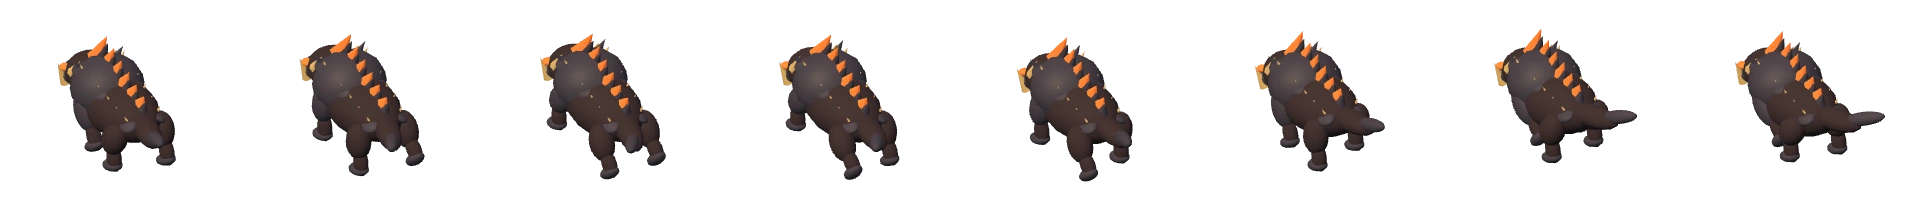
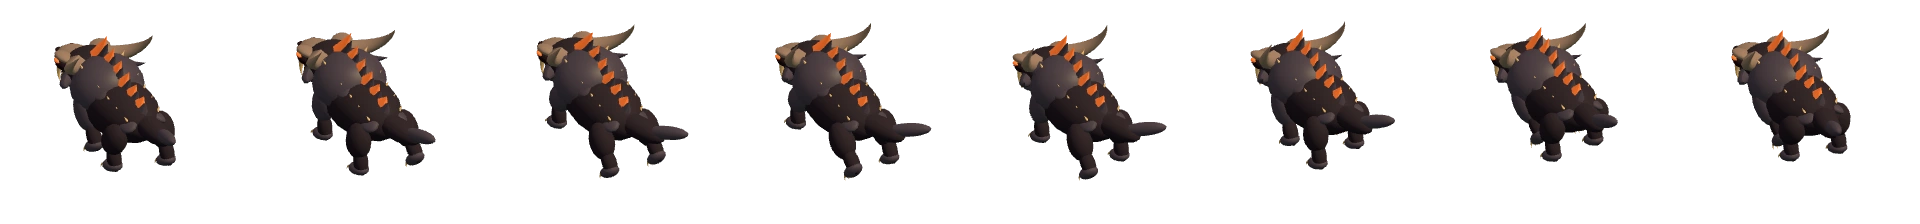
Fill the viewport edge to edge and animate the ridgeback grabbing the warrior

diff --git a/style.css b/style.css
@@ -1,33 +1,32 @@
 *{box-sizing:border-box}
 :root{
-  font-family:"Helvetica Neue",Arial,sans-serif;color:#19392f;background:#f1eddf;
+  font-family:"Helvetica Neue",Arial,sans-serif;color:#19392f;background:#102821;
   --paper:#f1eddf;--ink:#18392e;--gold:#f7c66e;
 }
 body{
   margin:0;height:100vh;height:100dvh;overflow:hidden;
   display:grid;grid-template-rows:auto minmax(0,1fr) auto;
-  padding: max(12px,env(safe-area-inset-top)) max(clamp(12px,2.6vw,48px),env(safe-area-inset-right)) max(9px,env(safe-area-inset-bottom)) max(clamp(12px,2.6vw,48px),env(safe-area-inset-left));
+  --side:max(16px,3vw,env(safe-area-inset-left),env(safe-area-inset-right));
 }
 [hidden]{display:none!important}
 button,kbd{font-family:inherit}
 button{cursor:pointer;color:inherit}
 button:focus-visible{outline:3px solid #ba7628;outline-offset:4px}
 header,footer,.brand,.stats,.stats>span,.keys,.keys>span,.actions,.guide-top{display:flex;align-items:center}
-header{justify-content:space-between;gap:12px;padding:3px 2px 15px;z-index:2}
+header{grid-area:1/1;justify-content:space-between;gap:12px;padding:max(12px,env(safe-area-inset-top)) var(--side) 10px;z-index:2;color:#fff6df;background:linear-gradient(#10251db0,transparent)}
 .brand{gap:10px;font-weight:950;font-size:13px;line-height:.94;letter-spacing:-.025em}
 .brand img{width:40px;height:40px}
 .stats{gap:18px}
 .stats>span{gap:8px;font-size:11px;font-weight:800;text-transform:uppercase;letter-spacing:.12em}
 .stats b{font-size:19px;letter-spacing:-.045em;font-variant-numeric:tabular-nums}
 #help,#home,.close{border:1px solid #17392d42;background:transparent;border-radius:6px;font-weight:750}
-#help{display:flex;align-items:center;gap:8px;min-height:40px;padding:0 13px}
+#help{display:flex;align-items:center;gap:8px;min-height:40px;padding:0 13px;background:#142e24ce;border-color:#fff5;color:#fff6df}
 #help span{font-size:10px;border:1.5px solid currentColor;border-radius:50%;width:16px;height:16px;line-height:14px}
-#help:hover,.close:hover{background:#dedfcf}
-.stage{position:relative;isolation:isolate;border-radius:12px;overflow:hidden;background:#264a3b;display:grid;align-items:center}
+#help:hover{background:#254738}.close:hover{background:#dedfcf}
+.stage{grid-area:1/1/4/2;position:relative;isolation:isolate;overflow:hidden;background:#264a3b;display:grid;align-items:center;padding:max(62px,calc(env(safe-area-inset-top) + 50px)) 0 max(44px,calc(env(safe-area-inset-bottom) + 38px))}
 canvas{position:absolute;inset:0;display:block;width:100%;height:100%;touch-action:none}
-.stage::before,.stage::after{content:"";pointer-events:none;position:absolute;inset:0;z-index:1}
+.stage::before{content:"";pointer-events:none;position:absolute;inset:0;z-index:1}
 .stage::before{background:linear-gradient(90deg,#0b231bf5 0%,#102b20dc 23%,#122c2182 44%,transparent 69%),linear-gradient(0deg,#10251e66,transparent 45%)}
-.stage::after{inset:auto 0 0;height:5px;background:repeating-linear-gradient(120deg,#d3b77b 0 4px,#617557 4px 8px,#203d32 8px 12px);opacity:.75}
 main{position:relative;z-index:1;max-height:100%;overflow:auto;scrollbar-width:thin;color:#fff7e5;padding:clamp(16px,4vw,72px);width:fit-content;max-width:57%}
 .course,.control-label{font-size:10px;font-weight:800;letter-spacing:.18em;text-transform:uppercase}
 .course{display:flex;align-items:center;gap:11px;color:#f5cf8d}
@@ -41,8 +40,8 @@ main p{color:#f4eddd;line-height:1.5;font-size:clamp(14px,1.15vw,18px);max-width
 .play-icon{width:0;height:0;border-block:6px solid transparent;border-left:9px solid currentColor}
 #start:hover,.done:hover{background:#ffdb93}
 #home{color:#fff8e5;border-color:#fff6;padding:13px 18px;background:#132d2499}
-footer{padding:13px 2px 2px;justify-content:space-between;gap:12px}
-.control-label{color:#506557}.keys{gap:20px}.keys>span,.touch{font-size:12px;font-weight:700;gap:5px}
+footer{grid-area:3/1;position:relative;z-index:2;color:#fff6df;background:linear-gradient(transparent,#10251dc4);padding:10px var(--side) max(12px,env(safe-area-inset-bottom));justify-content:space-between;gap:12px}
+.control-label{color:#e7d8ba}.keys{gap:20px}.keys>span,.touch{font-size:12px;font-weight:700;gap:5px}
 kbd{padding:3px 6px;border-radius:4px;border:1px solid #adb7a5;box-shadow:0 1px 0 #adb7a5;font-size:11px}
 .touch{display:none}
 dialog{width:min(410px,calc(100vw - 28px));max-height:90dvh;border:none;border-radius:12px;background:var(--paper);color:var(--ink);padding:clamp(18px,4vw,30px);box-shadow:0 20px 80px #071b15aa}
@@ -52,9 +51,9 @@ h2{font-size:34px;letter-spacing:-.055em;margin:18px 0 9px}
 dialog p,dd{font-size:14px;line-height:1.5}dl{margin:20px 0}dl>div{border-top:1px solid #1a382a30;display:grid;grid-template-columns:36% 1fr;padding:11px 0}
 dt{font-size:14px;font-weight:750}dd{margin:0}small{color:#536658}.done{width:100%}
 body:is([data-state=playing],[data-state=catching]){display:block;padding:0;touch-action:none}
-body:is([data-state=playing],[data-state=catching]) .stage{position:absolute;inset:0;border-radius:0}
+body:is([data-state=playing],[data-state=catching]) .stage{position:absolute;inset:0;padding:0}
 body:is([data-state=playing],[data-state=catching]) .stage::before,body:is([data-state=playing],[data-state=catching]) .stage::after,body:is([data-state=playing],[data-state=catching]) #help,body:is([data-state=playing],[data-state=catching]) footer{display:none}
-body:is([data-state=playing],[data-state=catching]) header{position:absolute;top:max(12px,env(safe-area-inset-top));left:max(16px,env(safe-area-inset-left));right:max(16px,env(safe-area-inset-right));color:#fff5db;text-shadow:0 1px 5px #14271f;pointer-events:none}
+body:is([data-state=playing],[data-state=catching]) header{position:absolute;top:max(12px,env(safe-area-inset-top));left:max(16px,env(safe-area-inset-left));right:max(16px,env(safe-area-inset-right));padding:0;background:none;color:#fff5db;text-shadow:0 1px 5px #14271f;pointer-events:none}
 body:is([data-state=playing],[data-state=catching]) .stats{gap:5px}body:is([data-state=playing],[data-state=catching]) .stats>span{padding:6px 10px;border-radius:5px;background:#153127dd}
 @media(max-width:540px){body:is([data-state=playing],[data-state=catching]) .brand span{display:none}}
 @media(pointer:coarse){.keys{display:none}.touch{display:block}}
@@ -65,5 +64,5 @@ body:is([data-state=playing],[data-state=catching]) .stats{gap:5px}body:is([data
   main p{margin:13px 0 15px;max-width:32ch}.stats{gap:10px}
 }
 @media(max-width:480px){.brand{font-size:11px;gap:6px}.brand img{width:32px;height:32px}.stats>span{font-size:9px;gap:4px}.stats b{font-size:15px}#help{font-size:12px;padding:0 8px}.control-label{display:none}footer{justify-content:center}.keys{gap:10px}}
-@media(max-height:460px){body{padding-top:max(5px,env(safe-area-inset-top));padding-bottom:max(5px,env(safe-area-inset-bottom))}header{padding-bottom:6px}.brand img{width:30px;height:30px}#help{min-height:30px}main{padding:10px 3vw}h1{font-size:clamp(34px,13vh,56px);margin-top:8px}main p{font-size:12px;margin:8px 0}#start,#home{min-height:36px;padding:8px 14px}footer{padding-top:5px}.stage{border-radius:7px}}
+@media(max-height:460px){header{padding-block:5px}.brand img{width:30px;height:30px}#help{min-height:30px}main{padding:10px 3vw}h1{font-size:clamp(34px,13vh,56px);margin-top:8px}main p{font-size:12px;margin:8px 0}#start,#home{min-height:36px;padding:8px 14px}footer{padding-block:5px}.stage{padding-block:40px 30px}}
 @media(max-height:300px){main p{display:none}.actions{margin-top:10px}}

diff --git a/pursuer.js b/pursuer.js
@@ -3,8 +3,10 @@ import * as T from './vendor/three.module.min.js';
 // An obsidian ridgeback with a heavy forequarter and a springing hind gait.
 export function createPursuer(scene) {
     const hull=new T.SphereGeometry(1,14,10), fang=new T.ConeGeometry(1,1,7);
-    const hide=new T.MeshStandardMaterial({color:0x392d38,roughness:.82});
-    const plate=new T.MeshStandardMaterial({color:0x454257,roughness:.59});
+    const hide=new T.MeshStandardMaterial({color:0x271e2b,roughness:.82});
+    const plate=new T.MeshStandardMaterial({color:0x494254,roughness:.48});
+    const mouth=new T.MeshStandardMaterial({color:0x210f1b});
+    const skull=new T.MeshStandardMaterial({color:0x957e73,roughness:.62});
     const ivory=new T.MeshStandardMaterial({color:0xe2bf85,roughness:.6});
     const ember=new T.MeshStandardMaterial({color:0xf58c44,emissive:0xbd3c0c,emissiveIntensity:.7});
     function pivot(parent,x=0,y=0,z=0) {
@@ -14,16 +16,45 @@ export function createPursuer(scene) {
         const m=new T.Mesh(shape,material);m.position.set(x,y,z);m.scale.set(rx,ry,rz);
         m.castShadow=true;parent.add(m);return m;
     }
+    // Taper along a curved centreline so the hooks have sharp, swept tips.
+    function hook(parent,mat,start,mid,end,radius){
+        const curve=new T.QuadraticBezierCurve3(...[start,mid,end].map(p=>new T.Vector3(...p)));
+        const g=new T.TubeGeometry(curve,8,radius,7,false);
+        const pos=g.attributes.position,v=new T.Vector3();
+        for(let row=0;row<=8;row++){
+            const u=row/8,center=curve.getPointAt(u);
+            for(let j=0;j<=7;j++){
+                const i=row*8+j;
+                v.fromBufferAttribute(pos,i).sub(center).multiplyScalar(1-u*.993).add(center);
+                pos.setXYZ(i,v.x,v.y,v.z);
+            }
+        }
+        g.computeVertexNormals();form(parent,g,mat,0,0,0,1,1,1);
+    }
     const root=pivot(scene),body=pivot(root),head=pivot(body,0,.69,-.49);
     form(body,hull,hide,0,.58,0,.38,.33,.64);
     form(body,hull,plate,0,.73,-.27,.43,.36,.39);
-    form(head,hull,hide,0,.045,-.11,.295,.24,.31);
-    form(head,hull,plate,0,-.055,-.34,.23,.135,.22);
+    form(head,hull,hide,0,.09,-.12,.33,.25,.32);
+    form(head,hull,skull,0,.085,-.37,.218,.115,.33);
+    form(head,hull,hide,0,.047,-.59,.172,.085,.12);
+    const jaw=pivot(head,0,-.01,-.17);
+    form(jaw,hull,plate,0,-.095,-.20,.193,.089,.29);
+    form(jaw,hull,mouth,0,-.039,-.21,.172,.041,.268);
+    const bite=pivot(head,0,-.038,-.49);
+    const bitePosition=new T.Vector3();
     for(const s of [-1,1]){
-        form(head,hull,ember,s*.225,.09,-.31,.063,.038,.066);
-        form(head,fang,ivory,s*.23,-.015,-.37,.066,.30,.063).rotation.z=-s*.38;
-        form(head,fang,plate,s*.23,.235,.025,.095,.32,.10).rotation.z=-s*.66;
-        form(head,fang,ivory,s*.24,.22,-.05,.062,.28,.065).rotation.x=.61;
+        form(head,hull,mouth,s*.236,.143,-.31,.095,.077,.112);
+        form(head,hull,ember,s*.26,.159,-.342,.077,.034,.089).rotation.z=s*.29;
+        form(head,hull,mouth,s*.31,.16,-.38,.009,.026,.011);
+        form(head,hull,skull,s*.226,.217,-.303,.119,.054,.147).rotation.z=s*.34;
+        form(head,hull,mouth,s*.083,.092,-.674,.04,.027,.027);
+        hook(head,skull,[s*.20,.23,-.08],[s*.57,.30,.14],[s*.48,.64,.40],.112);
+        hook(head,plate,[s*.27,.05,-.15],[s*.47,.04,-.02],[s*.52,.17,.20],.091);
+        hook(head,ivory,[s*.151,.032,-.51],[s*.18,-.14,-.55],[s*.17,-.207,-.48],.045);
+        for(let j=0;j<4;j++){
+            form(head,fang,ivory,s*.162,.005,-.30-j*.066,.027,.10,.029).rotation.x=Math.PI;
+            form(jaw,fang,ivory,s*.15,-.018,-.12-j*.063,.026,.082,.029);
+        }
     }
     for(let i=0;i<6;i++){
         const z=-.40+i*.168, height=.53-.051*i,base=1.13-.058*i;
@@ -46,25 +77,31 @@ export function createPursuer(scene) {
         const ankle=pivot(hip,0,rear?-.26:-.33,.035);
         form(ankle,hull,hide,0,-.11,0,.084,.165,.089);
         form(ankle,hull,plate,0,-.205,-.057,.103,.069,.145);
+        for(let i=-1;i<=1;i++)hook(ankle,ivory,[i*.048,-.20,-.124],[i*.052,-.188,-.21],[i*.054,-.25,-.23],.027);
         legs.push({hip,ankle,s,rear});
     }
     return function animate(state,player,t,chase) {
         root.visible=state!=='start';
         if(!root.visible)return;
+        const grip=T.MathUtils.smoothstep(chase.hold,0,.22);
+        const hoist=T.MathUtils.smoothstep(chase.hold,.22,.91);
         const gap=.80+chase.lead;
-        root.position.set(chase.x,0,gap+chase.stumble*.48);
+        root.position.set(chase.x,0,gap+chase.stumble*.48+hoist*.58);
         root.rotation.y=Math.atan2(chase.x-player.x,gap)*.81;
         const run=chase.lead>0?1:0,phase=chase.stride*2.28;
         const lunge=state==='catching'?Math.sin(Math.PI*Math.max(0,1-chase.lead/.85)):0;
         const pinned=state==='over'||chase.lead===0;
         body.position.y=run*.081*Math.abs(Math.sin(phase))+.013*Math.sin(t*3)+lunge*.19;
-        body.rotation.x=.09*Math.sin(phase)*run+lunge*.24-(pinned?.19:0);
-        head.rotation.x=.1*Math.cos(phase+.5)*run-.07-(pinned?.24:0);
+        body.rotation.x=.09*Math.sin(phase)*run+lunge*.24-(pinned?.19:0)+hoist*.36;
+        head.rotation.x=.1*Math.cos(phase+.5)*run-.07-(pinned?.24:0)+hoist*.63;
+        head.rotation.z=hoist*(.13+.075*Math.sin(t*6));
+        jaw.rotation.x=-(.21+.09*Math.sin(phase)+lunge*.51)*(1-grip)-.055*grip;
         tailBase.rotation.y=.34*Math.sin(t*4.1);tip.rotation.y=.37*Math.sin(t*4.1-.8);
         for(const {hip,ankle,s,rear} of legs){
             const swing=Math.sin(phase+(rear?2.9:0)+s*.51);
             hip.rotation.x=swing*.72*run;
             ankle.rotation.x=-.19-Math.max(0,swing)*.78*run;
         }
+        return grip>0 ? bite.getWorldPosition(bitePosition) : null;
     };
 }

diff --git a/temple.js b/temple.js
@@ -152,6 +152,7 @@ export function createTempleScene(canvas) {
         scene.add(g);return g;
     }
     const free={barrier:[],gate:[],gem:[]};
+    const shotPosition=new T.Vector3(),shotTarget=new T.Vector3(),shotDirection=new T.Vector3();
     let prevW=0,prevH=0;
     return function draw(state,distance,p,entities,t,menu,chase){
         const w=canvas.clientWidth,h=canvas.clientHeight;
@@ -171,10 +172,22 @@ export function createTempleScene(canvas) {
             2.36-.79*menu-.55*catchFocus,
             T.MathUtils.lerp(T.MathUtils.lerp(chaseDepth,3.85+narrow*.7,menu),2.05,catchFocus));
         camera.lookAt(p.x*(.16+.84*catchFocus),1.08-.47*catchFocus,-4.6+menu*3.7+5.36*catchFocus);
+        if(chase.hold>0 && state!=='start'){
+            const closeUp=T.MathUtils.smoothstep(chase.hold,0,1.12);
+            // Let the grab read in profile first, then fill the results
+            // backdrop with the face while keeping the clasp in view.
+            const portraitZoom=state==='over'?menu:0;
+            camera.position.lerp(shotPosition.set(p.x+2.85-1.84*portraitZoom,
+                1.45-.10*portraitZoom,-.46+.46*portraitZoom),closeUp);
+            shotTarget.set(p.x,.87+.15*portraitZoom,1.16);
+            camera.getWorldDirection(shotDirection);
+            shotDirection.multiplyScalar(3.5).add(camera.position).lerp(shotTarget,closeUp);
+            camera.lookAt(shotDirection);
+        }
         forest.position.z=distance%period;repeat.position.z=forest.position.z-period;
-        poseRunner(state,distance,p,t,menu,chase.stumble);
-        posePursuer(state,p,t,chase);
-        shadow.position.set(p.x,.018,.02+chase.stumble*.48);shadow.scale.set(.37,.48,1);
+        const bite=posePursuer(state,p,t,chase);
+        const runnerPosition=poseRunner(state,distance,p,t,menu,chase.stumble,bite,chase.hold);
+        shadow.position.set(runnerPosition.x,.018,.02+runnerPosition.z);shadow.scale.set(.37,.48,1);
         for(const [e,obj] of objects)if(!entities.includes(e)){obj.visible=false;free[e.kind].push(obj);objects.delete(e);}
         for(const e of entities){
             let obj=objects.get(e);

diff --git a/runner.js b/runner.js
@@ -67,6 +67,7 @@ export function createRunner(scene) {
         return {anchor,bend};
     }
     const hips=joint(root),spine=joint(hips),neck=joint(spine,0,.61,-.018);
+    const armorGrip=joint(spine,0,.43,.178),gripPosition=new T.Vector3();
     // Wraparound woven panels share a small local texture. The larger bands
     // stay legible from the chase camera; the fine fibre shows in the menu.
     function weave(base, reed, trim) {
@@ -181,7 +182,7 @@ export function createRunner(scene) {
     });
     let lastTime=0,airborne=false,impact=0;
     const mix=T.MathUtils.lerp;
-    return function pose(state,distance,p,t,menu,stumble=0){
+    return function pose(state,distance,p,t,menu,stumble=0,bite=null,hold=0){
         const dt=Math.min(.08,Math.max(0,t-lastTime));lastTime=t;
         const running=state==='playing',air=T.MathUtils.smoothstep(p.y,0,.3);
         if(running && !p.y && airborne)impact=1;
@@ -222,6 +223,19 @@ export function createRunner(scene) {
             const counter=Math.cos(phase*2*Math.PI)*travel;
             arm.anchor.rotation.set(-.28-.82*counter+s*.46*air-.23*c,0,s*(.12+.27*c+.13*air));
             arm.bend.rotation.x=.62+.66*travel-.25*counter+.32*air;
+            if(bite){
+                const lift=T.MathUtils.smoothstep(hold,.18,.86);
+                arm.anchor.rotation.z+=s*lift*(.51+.14*Math.sin(t*8+s));
+                leg.bend.rotation.x-=lift*(.27+.18*Math.sin(t*7+s));
+            }
         }
+        // Keep the clasp on the back of the armor between the teeth while the
+        // head lifts and pulls. Both roots are in scene coordinates.
+        if(bite){
+            armorGrip.getWorldPosition(gripPosition);
+            root.position.addScaledVector(gripPosition.subVectors(bite,gripPosition),
+                T.MathUtils.smoothstep(hold,0,.22));
+        }
+        return root.position;
     };
 }

diff --git a/scene.js b/scene.js
@@ -148,6 +148,15 @@ function createScene(canvas, laneWidth) {
     athlete.src='assets/runner-poses.webp';
     const ridgeback=new Image();
     ridgeback.src='assets/ridgeback-poses.webp';
+    const capture=new Image();
+    capture.src='assets/ridgeback-grab.webp';
+    function grab(x,z,hold){
+        const frame=Math.min(15,Math.round(hold/1.65*15));
+        const [px,py]=project(x,0,z),scale=focal/z;
+        ellipse('#3e40474d',px,py,scale*.78,scale*.20);
+        ctx.drawImage(capture,frame%8*384,Math.floor(frame/8)*256,384,256,
+            px-2.1*scale,py-2.1*scale,4.2*scale,2.8*scale);
+    }
     function beast(x,z,distance){
         if(!ridgeback.naturalWidth)return;
         const [px,py]=project(x,0,z),scale=focal/z;
@@ -186,8 +195,13 @@ function createScene(canvas, laneWidth) {
             const z=e.at-distance+8;
             if(z>1.5&&z<155)items.push({z,draw:()=>e.kind==='gem'?gem(e.x,z,time):obstacle(e,z)});
         }
-        items.push({z:8-chase.stumble*.48,draw:()=>runner(player,distance,state!=='start',chase.stumble)});
-        if(state!=='start'){
+        const gripped=(state==='catching'||state==='over') && chase.hold>0 && capture.naturalWidth>0;
+        if(gripped){
+            items.push({z:7,draw:()=>grab(player.x,7,chase.hold)});
+        }else{
+            items.push({z:8-chase.stumble*.48,draw:()=>runner(player,distance,state!=='start',chase.stumble)});
+        }
+        if(state!=='start' && !gripped){
             const z=8-(.8+chase.lead+chase.stumble*.48);
             if(z>1.5)items.push({z,draw:()=>beast(chase.x,z,chase.stride)});
         }

diff --git a/sw.js b/sw.js
@@ -1,7 +1,8 @@
-const CACHE = 'polynesian-runner-v10';
-const urls = ['./','./index.html','./style.css','./scene.js','./temple.js','./runner.js','./pursuer.js','./vendor/three.module.min.js',
+const CACHE = 'polynesian-runner-v12';
+const urls = ['./','./index.html','./style.css?v=12','./scene.js','./temple.js','./runner.js','./pursuer.js','./vendor/three.module.min.js',
     './game.js','./manifest.json','./favicon.png','./assets/temple-mark.svg','./assets/apple-touch-icon.png',
-    './assets/icon-192.png','./assets/icon-512.png','./assets/runner-poses.webp','./assets/ridgeback-poses.webp'];
+    './assets/icon-192.png','./assets/icon-512.png','./assets/runner-poses.webp','./assets/ridgeback-poses.webp',
+    './assets/ridgeback-grab.webp'];
 self.addEventListener('install', event => {
     event.waitUntil(caches.open(CACHE).then(cache => cache.addAll(urls)).then(() => self.skipWaiting()));
 });

diff --git a/index.html b/index.html
@@ -3,7 +3,7 @@
 <head>
 <meta charset="utf-8"><meta name="viewport" content="width=device-width, initial-scale=1, viewport-fit=cover">
 <meta name="theme-color" content="#102821"><title>Polynesian Runner</title>
-<link rel="icon" href="favicon.png" sizes="32x32"><link rel="icon" href="assets/temple-mark.svg" type="image/svg+xml" sizes="any"><link rel="apple-touch-icon" href="assets/apple-touch-icon.png"><link rel="manifest" href="manifest.json"><link rel="stylesheet" href="style.css">
+<link rel="icon" href="favicon.png" sizes="32x32"><link rel="icon" href="assets/temple-mark.svg" type="image/svg+xml" sizes="any"><link rel="apple-touch-icon" href="assets/apple-touch-icon.png"><link rel="manifest" href="manifest.json"><link rel="stylesheet" href="style.css?v=12">
 </head>
 <body data-state="start">
 <header>

diff --git a/game.js b/game.js
@@ -195,7 +195,7 @@ function advanceCapture(dt) {
     chase.stride += closed;
     if(chase.lead === 0){
         chase.hold += dt;
-        if(chase.hold >= .75) end();
+        if(chase.hold >= 1.65) end();
     }
 }
 function frame(now) {
